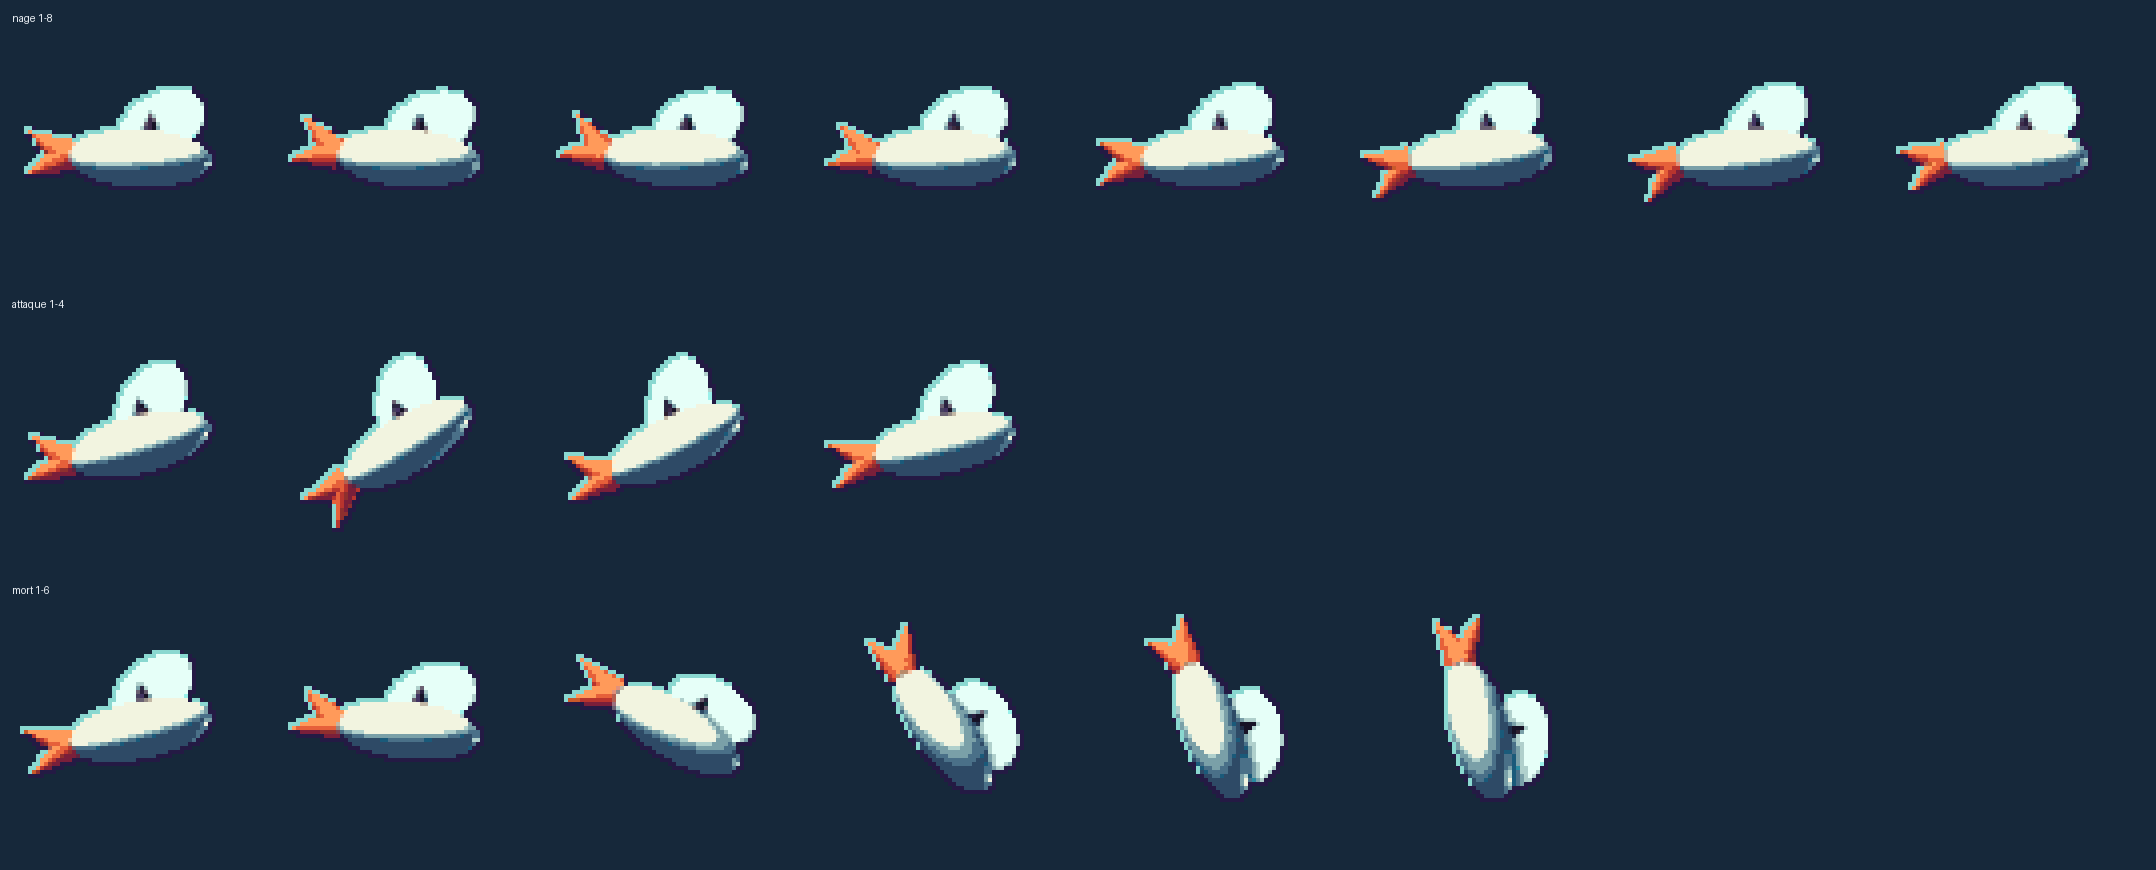
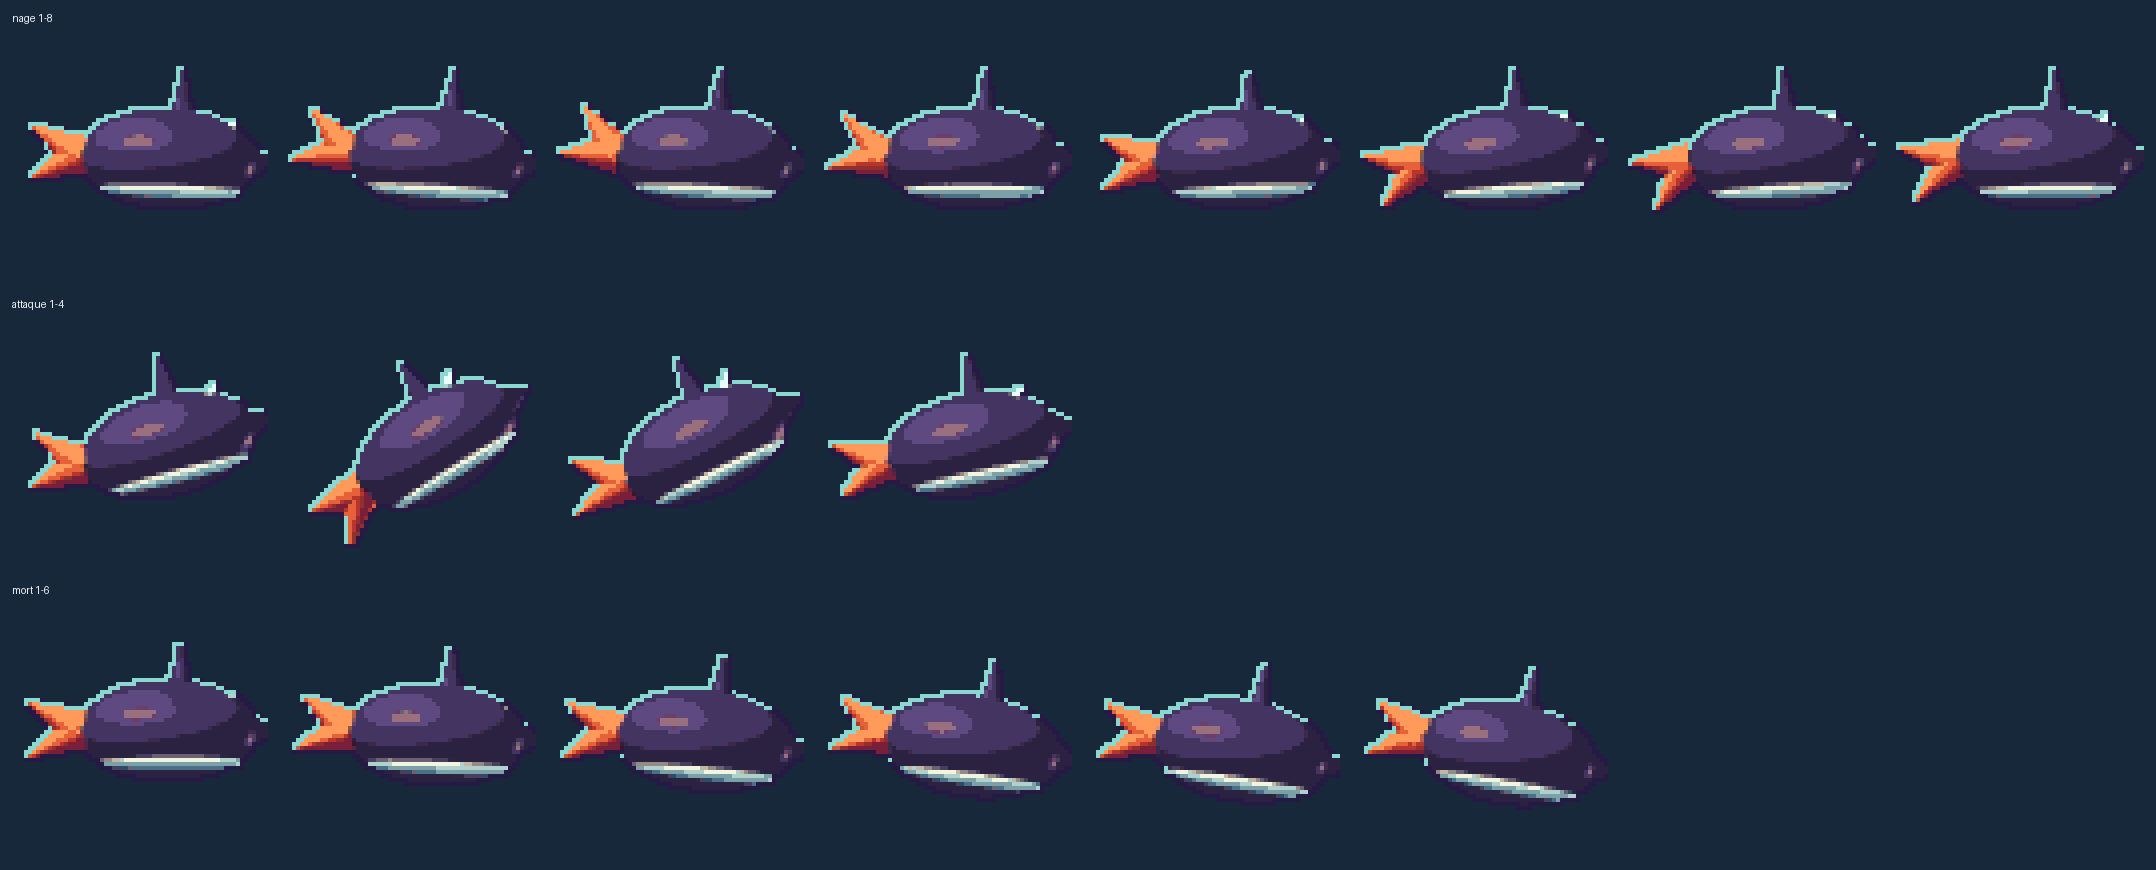
M3 : poisson volant, œil déplacé sur la surface ; journaux des pixels (tortue garde, poisson annulé)
- poisson_volant : l'œil était enfoncé dans le corps (invisible à 64 px) ; centre (0,40 ; -0,32 ; 0,10). Entrée 12 gardée.
- Pixelisation du poisson (rendu précédent, œil invisible) annulée, entrée 15.
- tortue : pixelisation au rendu final gardée (entrée 10), hauteur 36 px sur toutes les images.

diff --git a/art/source/blender/poisson_volant.py b/art/source/blender/poisson_volant.py
@@ -58,7 +58,7 @@ def construire(scene):
     ob.parent(museau, corps)
 
     # œil : blanc contrasté, pupille noire, côté caméra, sur la tête
-    ob.oeil((0.36, -0.22, 0.10), 0.085, corps, pupille=0.62, nom="oeil")
+    ob.oeil((0.40, -0.32, 0.10), 0.085, corps, pupille=0.62, nom="oeil")
 
     # aileron dorsal court
     dos = ob.cone((0.08, 0.0, 0.42), 0.10, 0.46, m_dos, nom="nageoire_dorsale")
